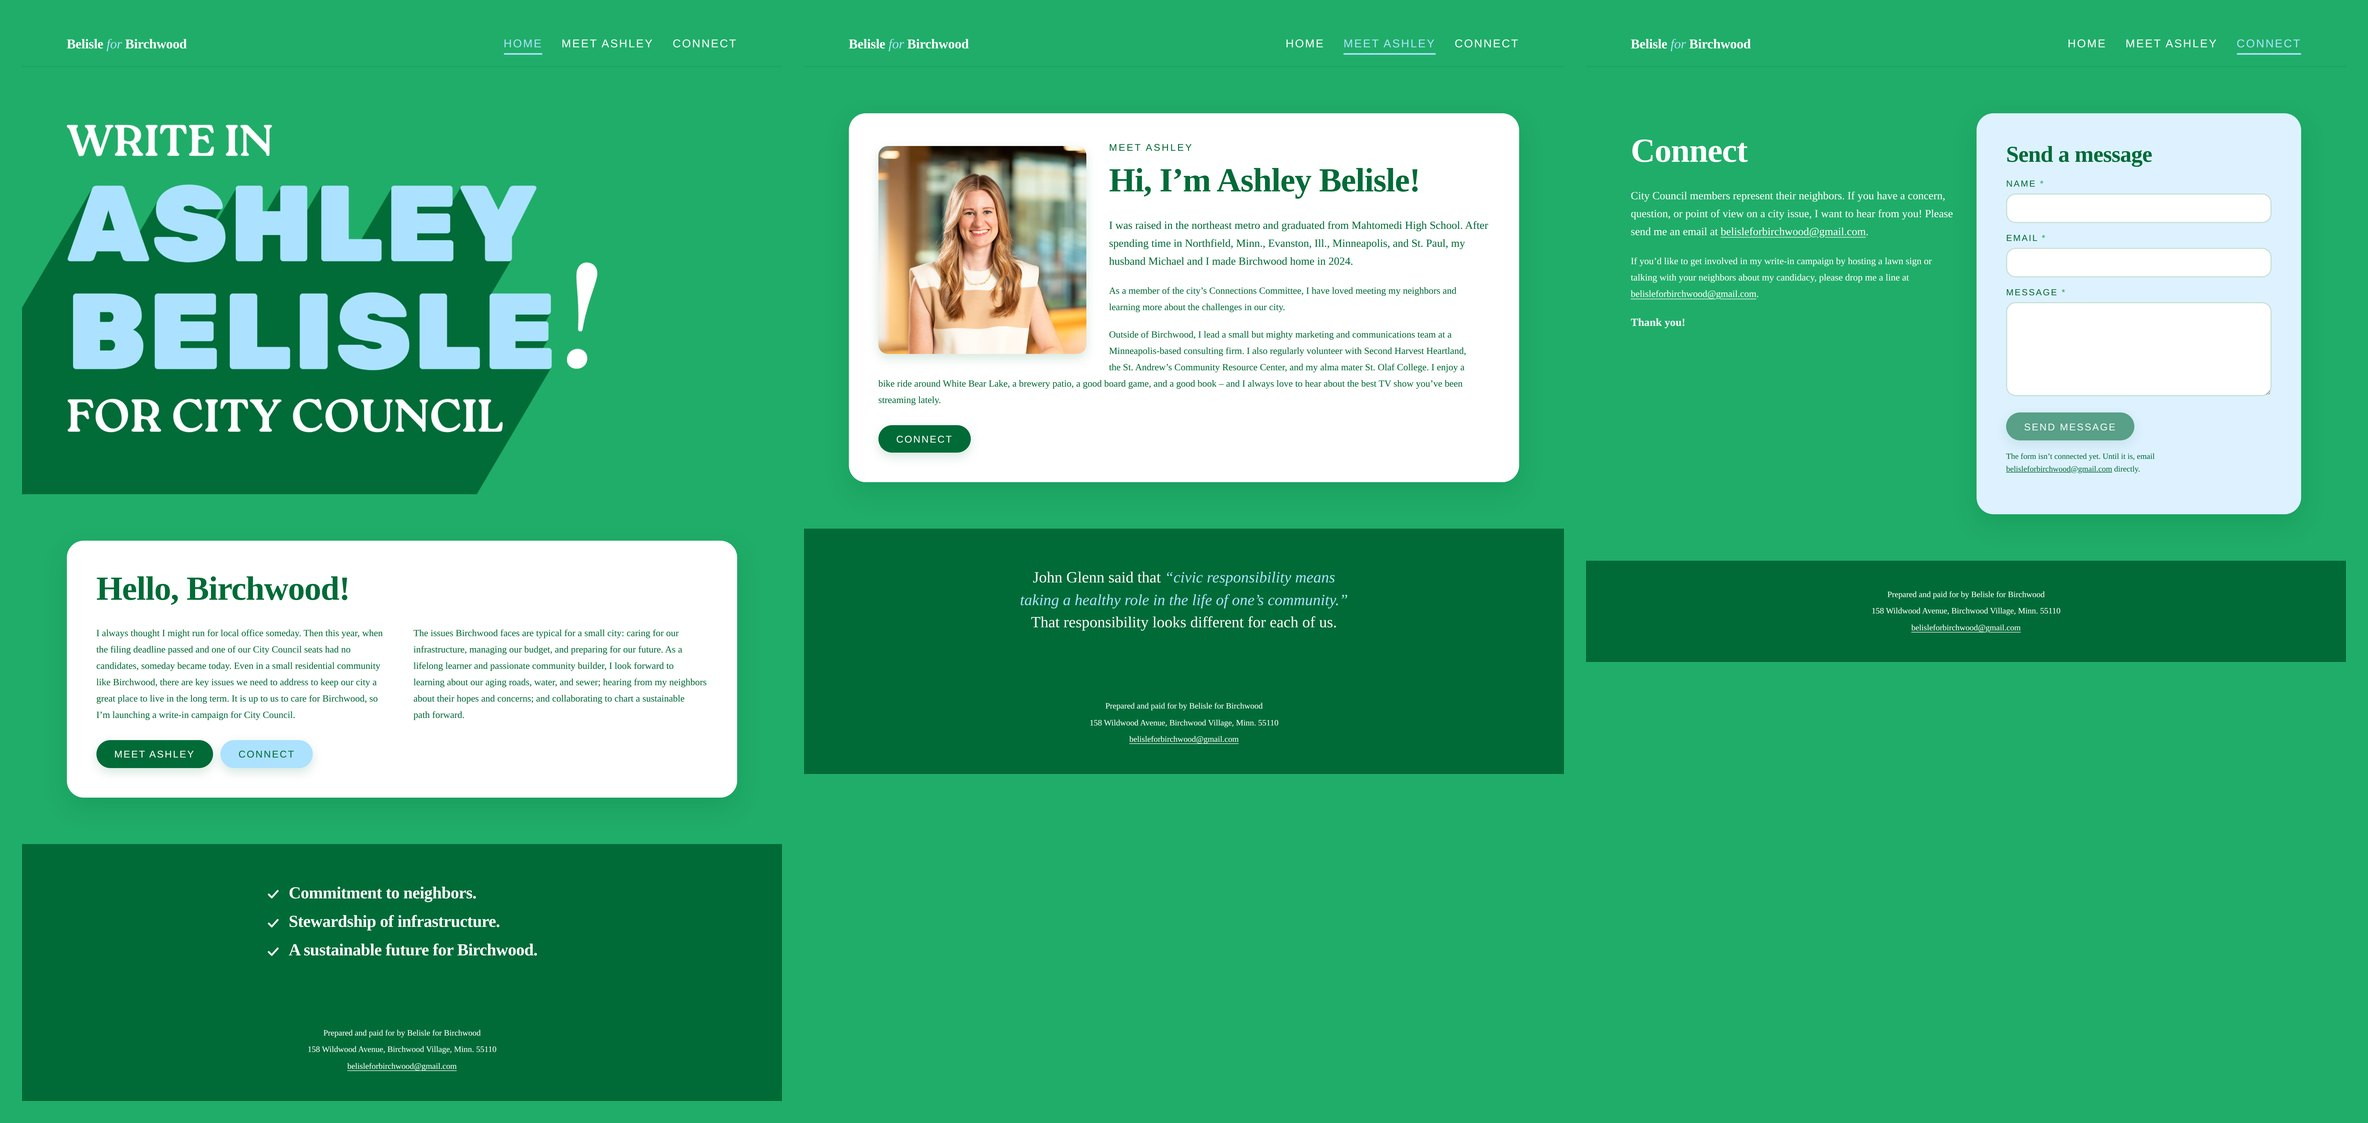
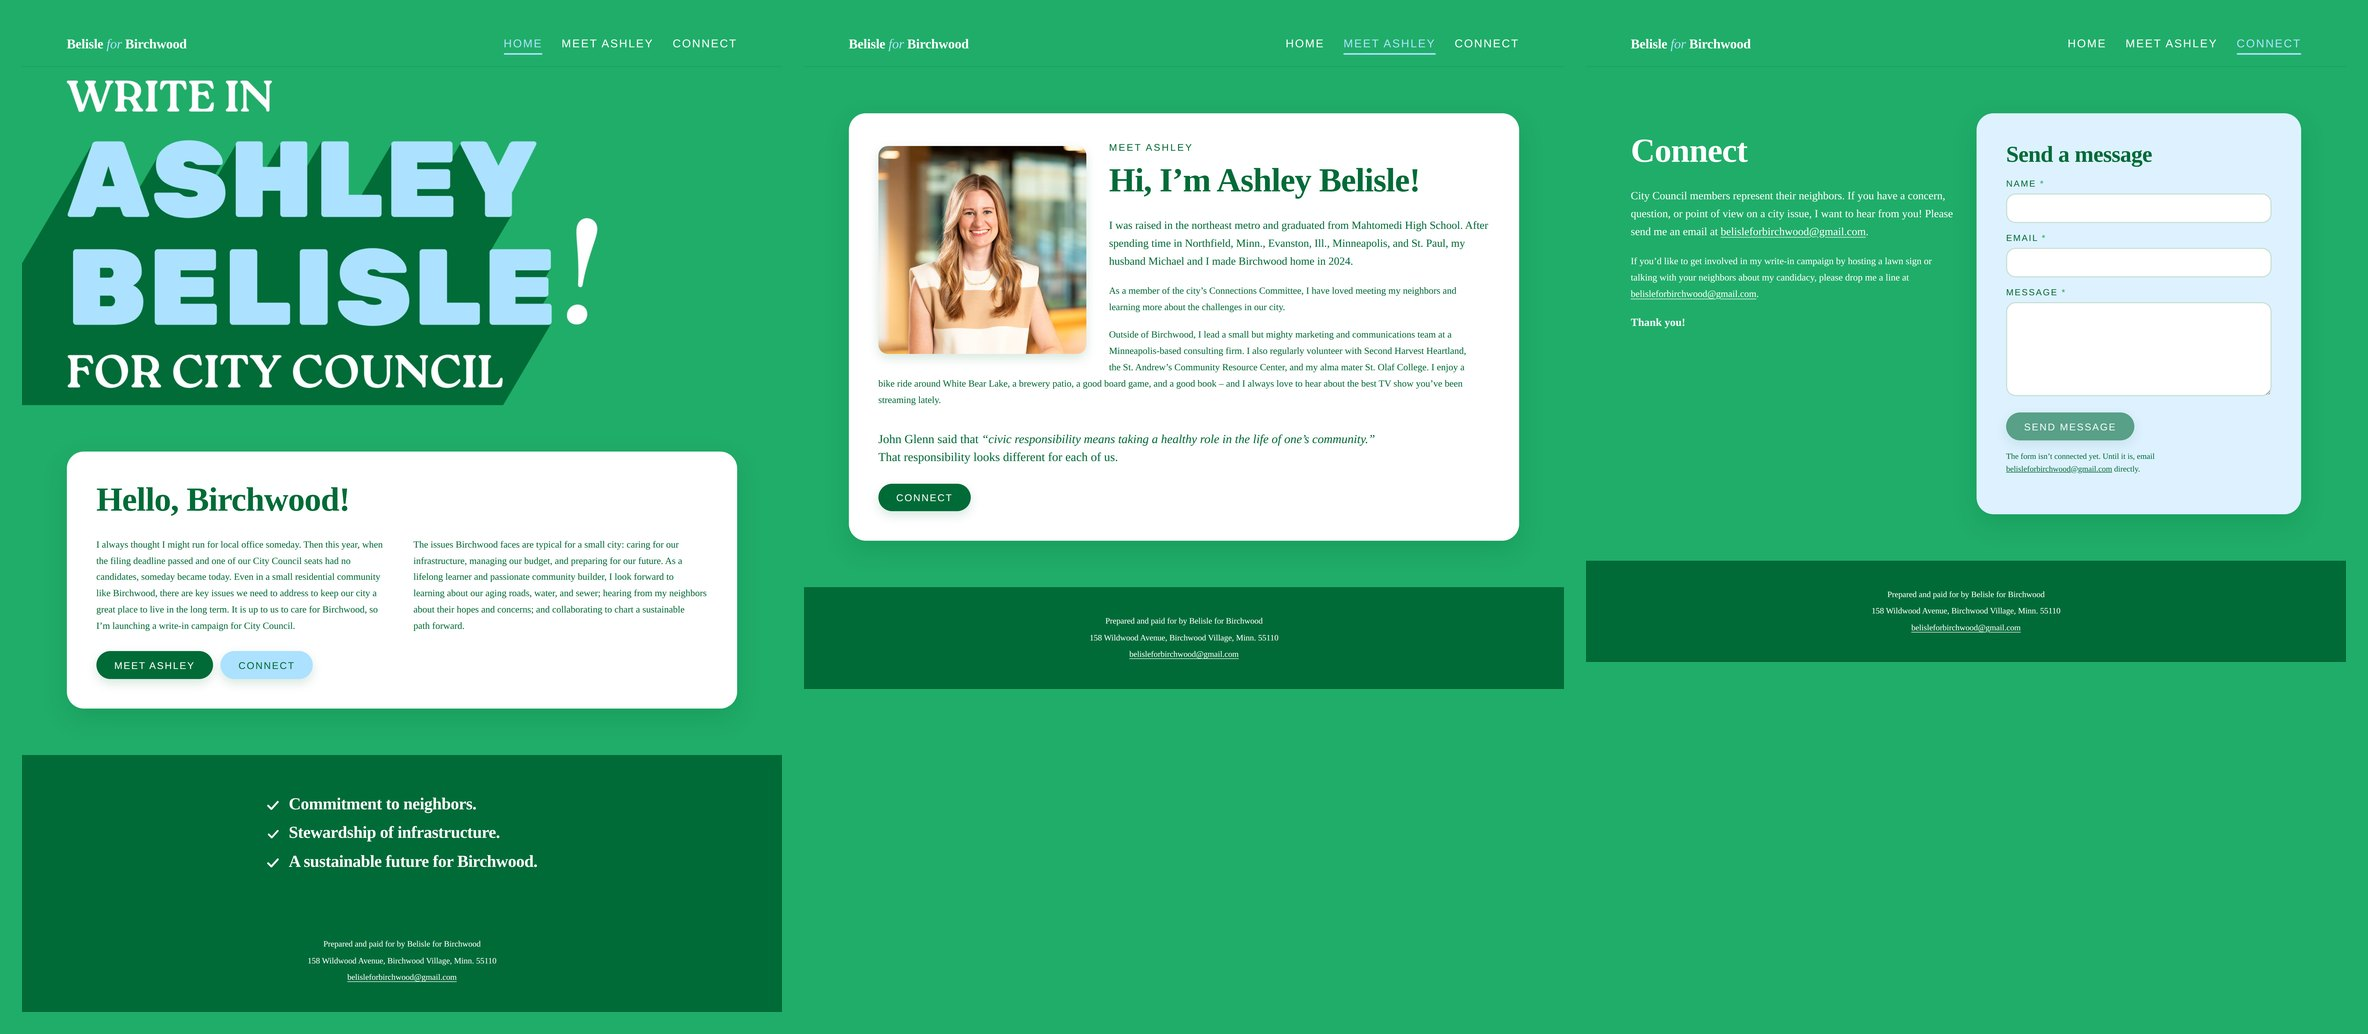
hero adjustment

diff --git a/src/styles.scss b/src/styles.scss
@@ -311,7 +311,16 @@ p:last-child { margin-bottom: 0; }
 .hero { background: var(--green); }
 .hero__img {
   width: 100%;
-  height: auto;
+  /* The art carries 146px of empty green above "WRITE IN" and a shadow tail
+     below the type. This trims 112px off each end (rows 112–967 of the 1080),
+     pulling the message up under the navbar and putting the whole hero above
+     the fold from a 13" laptop up to a 1080p display. "FOR CITY COUNCIL" ends
+     at row 920, so the type is never touched.
+     Cover scales by width here, so the 5.885% text inset — and every left edge
+     that hangs off it — is unaffected. Retune with `aspect-ratio` alone. */
+  height: auto; /* required, or the img's height attribute beats aspect-ratio */
+  aspect-ratio: 1920 / 855;
+  object-fit: cover;
 }
 
 /* ------------------------------------------------------------
@@ -361,17 +370,6 @@ p:last-child { margin-bottom: 0; }
   }
 }
 
-.band blockquote {
-  margin: 0 auto;
-  max-width: 22em;
-  font-size: clamp(1.25rem, 1rem + 1.15vw, 1.85rem);
-  line-height: 1.44;
-  font-variation-settings: "SOFT" 70, "WONK" 0;
-  text-align: center;
-  text-wrap: pretty;
-}
-.band blockquote q { quotes: "\201C" "\201D"; color: var(--sky); font-style: italic; }
-
 /* ------------------------------------------------------------
    Meet Ashley — one card, portrait floated into the top-left so the
    copy sets beside it and then runs full width underneath.
@@ -415,6 +413,22 @@ p:last-child { margin-bottom: 0; }
     clear: both;
   }
   .bio > .btn-row { clear: left; }
+}
+
+/* Ashley's closing thought — full width under the photo, a shade larger than
+   the body copy, no rules or ornament. */
+.pullquote {
+  clear: left;
+  margin: clamp(1.75rem, 3vw, 2.75rem) 0 0;
+  max-width: 42em;
+  font-size: clamp(1.12rem, 1rem + 0.62vw, 1.45rem);
+  line-height: 1.46;
+  font-variation-settings: "SOFT" 70, "WONK" 0;
+  text-wrap: pretty;
+}
+.pullquote q {
+  quotes: "\201C" "\201D";
+  font-style: italic;
 }
 
 @media (max-width: 759px) {

diff --git a/src/app/pages/meet-ashley.html b/src/app/pages/meet-ashley.html
@@ -43,20 +43,16 @@
           book – and I always love to hear about the best TV show you’ve been streaming lately.
         </p>
 
+        <blockquote class="pullquote">
+          John Glenn said that
+          <q>civic responsibility means taking a healthy role in the life of one’s community.</q>
+          That responsibility looks different for each of us.
+        </blockquote>
+
         <div class="btn-row">
           <a class="btn btn--primary" routerLink="/connect">Connect</a>
         </div>
       </div>
     </article>
-  </div>
-</section>
-
-<section class="band">
-  <div class="wrap">
-    <blockquote>
-      John Glenn said that
-      <q>civic responsibility means taking a healthy role in the life of one’s community.</q>
-      That responsibility looks different for each of us.
-    </blockquote>
   </div>
 </section>
